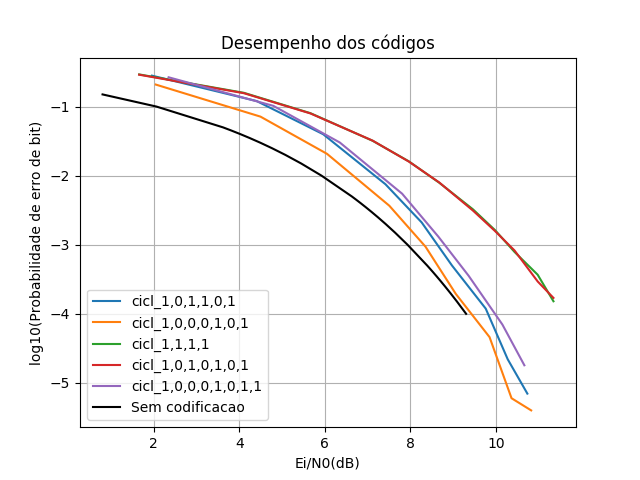
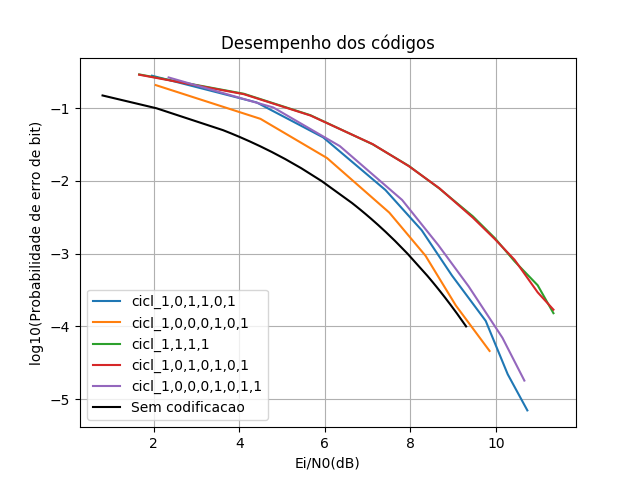
adiciona grafico de comparacao entre os melhores codigos

diff --git a/Grafico.py b/Grafico.py
@@ -58,8 +58,8 @@ class Grafico:
         for i in range(self.index):
             dadosTemp = self.dados[i]
             rate = dadosTemp['K']/dadosTemp['N']
-            x = [10*math.log10(-math.log(2*dadosTemp['x'][c])/rate) for c in range(1,len(dadosTemp['x'])) if dadosTemp['y'][c] != 0]
-            y = [math.log10(dadosTemp['y'][c]) for c in range(1,len(dadosTemp['y'])) if dadosTemp['y'][c] != 0]
+            x = [10*math.log10(-math.log(2*dadosTemp['x'][c])/rate) for c in range(1,len(dadosTemp['x'])) if dadosTemp['y'][c] != 0 and dadosTemp['x'][c]<0.4]
+            y = [math.log10(dadosTemp['y'][c]) for c in range(1,len(dadosTemp['y'])) if dadosTemp['y'][c] != 0 and dadosTemp['x'][c]<0.4]
             plt.plot(x,y, dadosTemp['style'],label=dadosTemp['legend'])
         plt.legend()
         plt.grid()

diff --git a/geraGrafico.py b/geraGrafico.py
@@ -23,6 +23,19 @@ for arquivo in arquivos:
 #     dado.dadosDeArquivo("Dados/convolucional/"+arquivo)
 #     grafico.adicionaDados(dado, "")
 
+# dado = DadosGrafico.DadosGrafico()
+# dado.dadosDeArquivo('Dados/linear/hamming.txt')
+# grafico.adicionaDados(dado, "")
+# dado.dadosDeArquivo('Dados/ciclico/cicl_1,0,0,0,1,0,1.txt')
+# grafico.adicionaDados(dado, "")
+# dado.dadosDeArquivo('Dados/convolucional/conv_4,25,33,37.txt')
+# grafico.adicionaDados(dado, "")
+# dado.dadosDeArquivo('Dados/convolucional/conv_4,25,33,37_pexata.txt')
+# grafico.adicionaDados(dado, "")
+# dado.dadosDeArquivo('Dados/convolucional/conv_4,25,33,37_euclidiano.txt')
+# grafico.adicionaDados(dado, "")
+
+
 
 # referencia
 dado = DadosGrafico.DadosGrafico()
